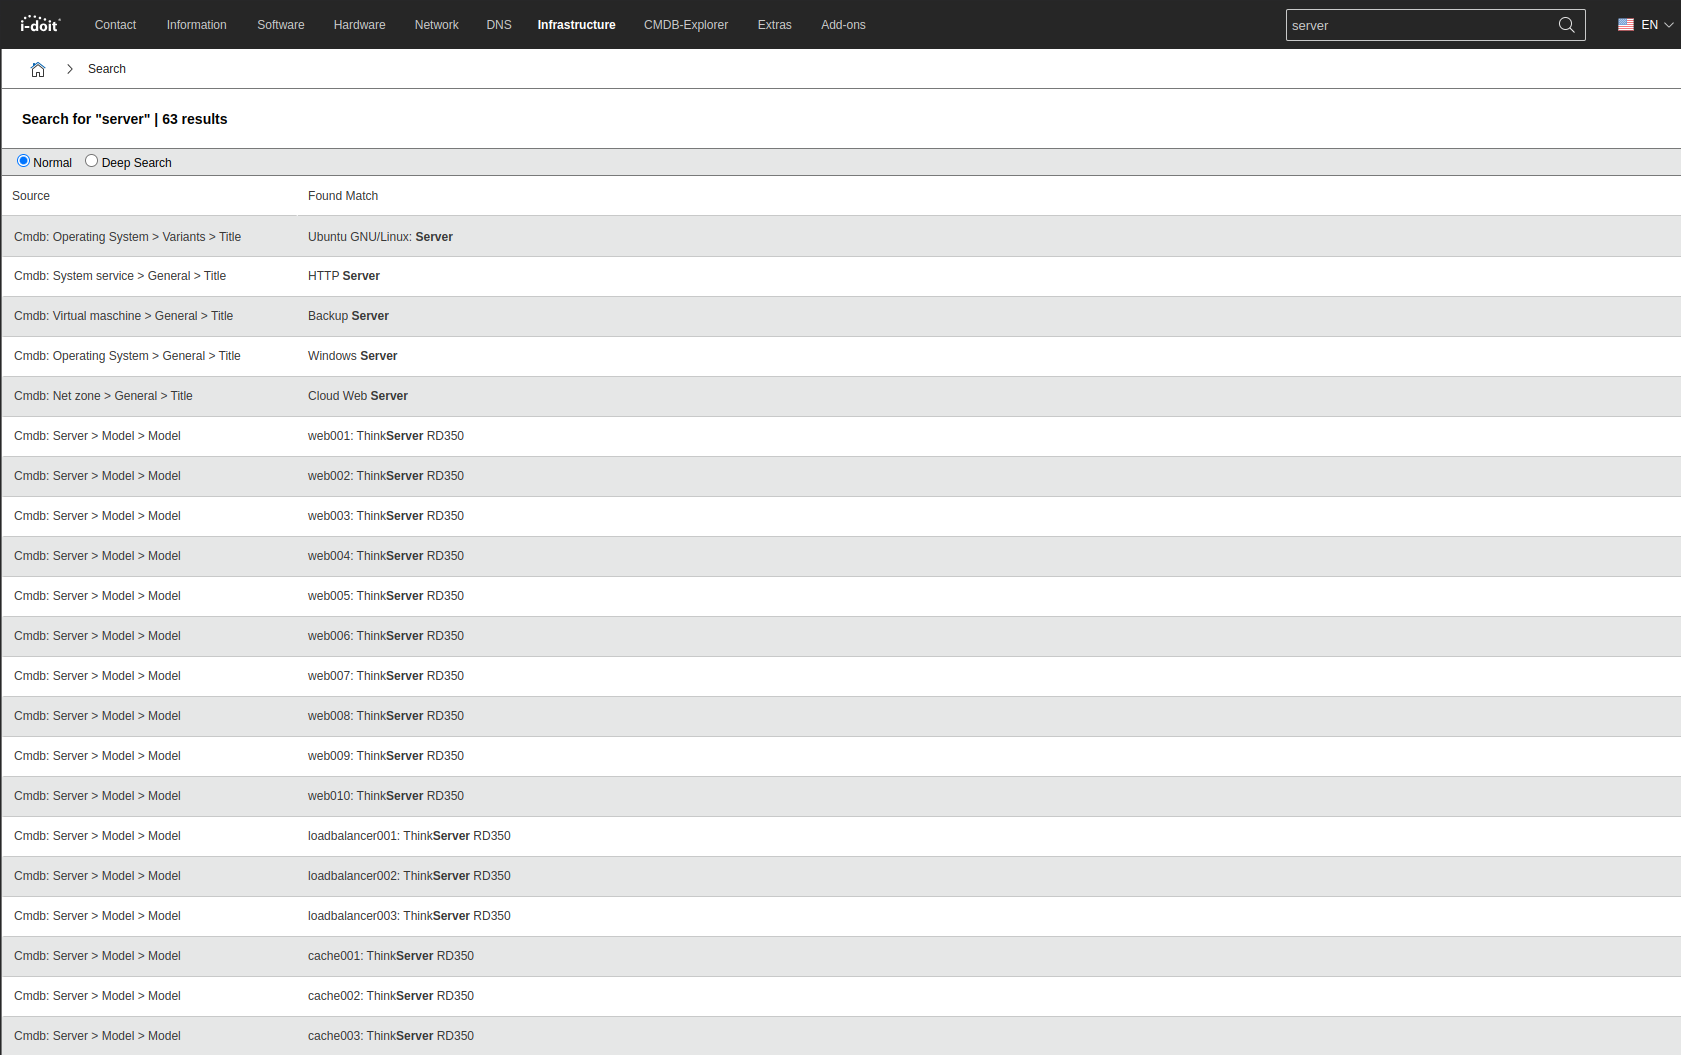
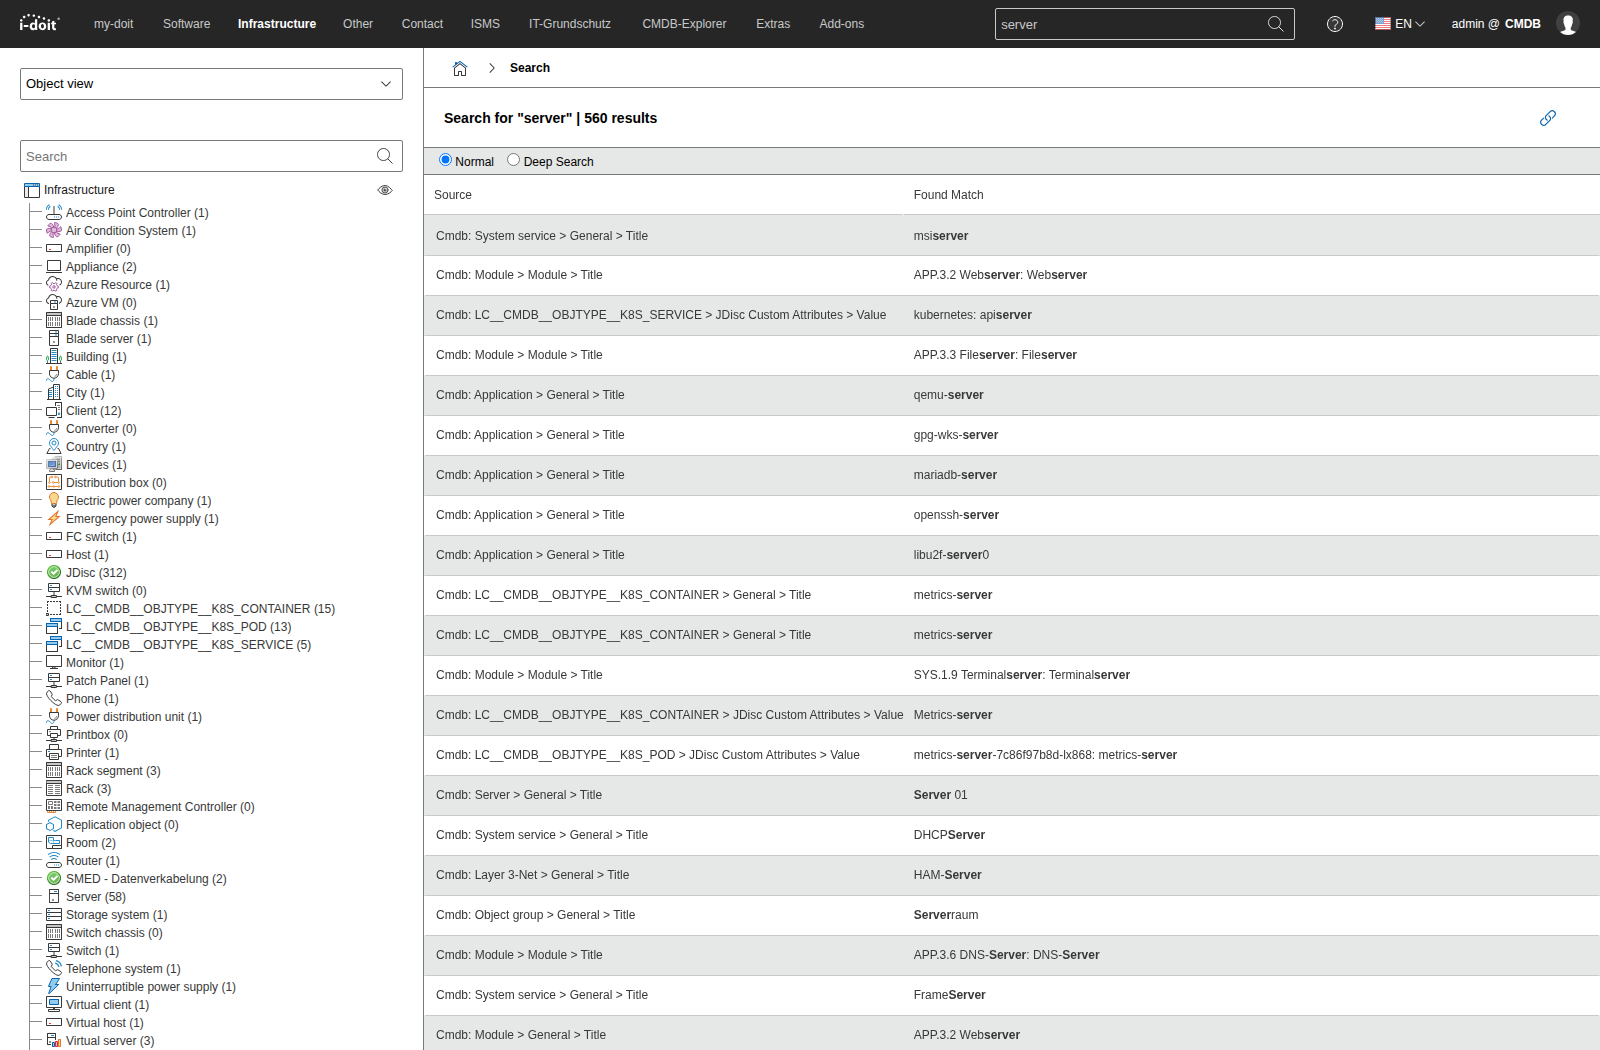
docs(search): use English screenshots for the search page
Point the English search page at English captures of the search field
autocomplete and the search result page, reproduced from i-doit 38,
instead of the German images. Part of #1321.

diff --git a/docs/en/efficient-documentation/search.md b/docs/en/efficient-documentation/search.md
@@ -13,7 +13,7 @@ Targeted research in the [IT documentation](../glossary.md) is often the fastest
 
 You can find the search field in the web GUI of i-doit in the upper right corner. Enter any terms there. Already while typing, initial search results (search suggestions) appear, which you can select with the mouse or keyboard to jump directly to the found record.
 
-[![search-field](../assets/images/de/effizientes-dokumentieren/suche/1-suche.png)](../assets/images/de/effizientes-dokumentieren/suche/1-suche.png)
+[![search-field](../assets/images/en/efficient-documentation/search/1-se.png)](../assets/images/en/efficient-documentation/search/1-se.png)
 
 In addition to the free text search, the search can be limited to specific [object attributes](../glossary.md):
 
@@ -24,7 +24,7 @@ In addition to the free text search, the search can be limited to specific [obje
 
 If the search suggestions do not lead to the desired result, press the Return key. You will receive a page with search results. Next to each found record, the source is displayed, for example, the [attribute](../glossary.md) of a [category](../glossary.md) of an [object type](../glossary.md) in the [CMDB](../glossary.md) module.
 
-[![search-results](../assets/images/de/effizientes-dokumentieren/suche/2-suche.png)](../assets/images/de/effizientes-dokumentieren/suche/2-suche.png)
+[![search-results](../assets/images/en/efficient-documentation/search/2-se.png)](../assets/images/en/efficient-documentation/search/2-se.png)
 
 !!! success "Set bookmarks/favorites"
     Every search can be referenced via the URL. If you search for the term "acme", the URL is [http://i-doit/i-doit/search?q=acme](http://i-doit/i-doit/search?q=acme). This way, search results can be saved as bookmarks/favorites in the web browser to access them more quickly.
